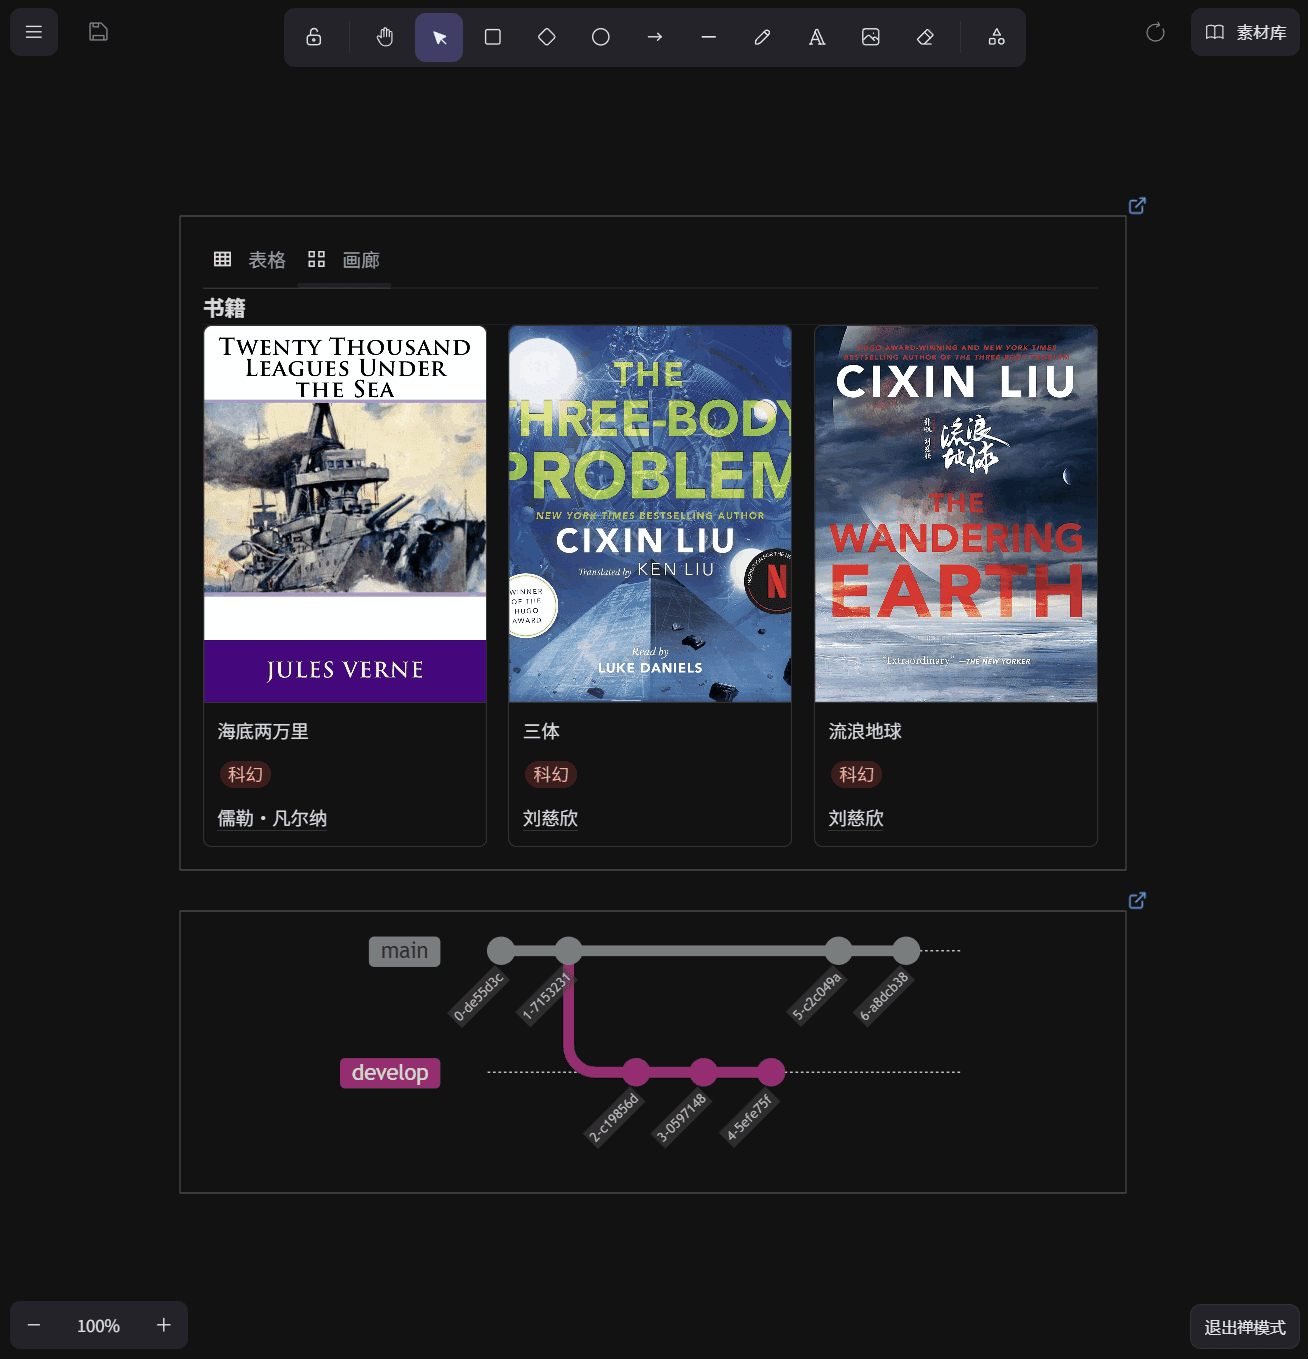
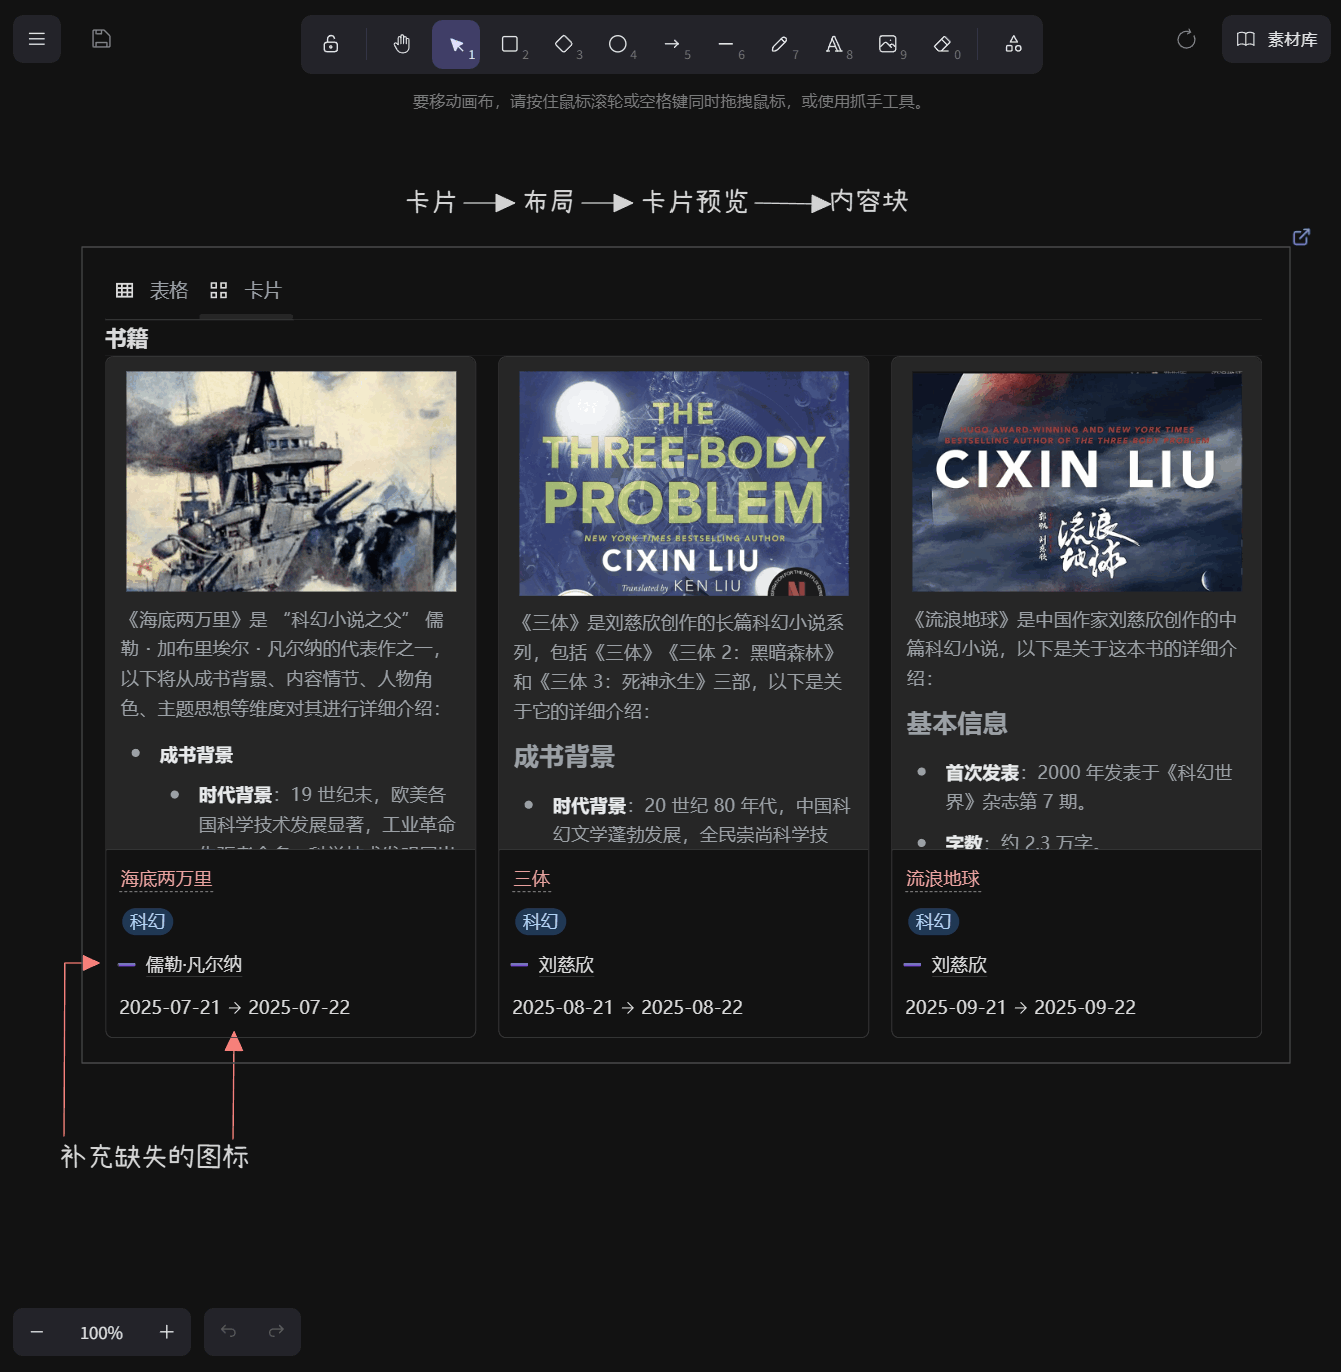
V2.0.10

diff --git a/index.html b/index.html
@@ -27,7 +27,7 @@
     catch (t) { console.error(t) }
   </script>
   <link rel="stylesheet" href="./custom.css">
-  <meta name="version" content="V2.0.9" />
+  <meta name="version" content="V2.0.10" />
   <script type="module" crossorigin src="./assets/index-ZsssFvwm.js"></script>
   <link rel="stylesheet" crossorigin href="./assets/index-DaQqI7hZ.css">
 </head>

diff --git a/README_en_US.md b/README_en_US.md
@@ -3,6 +3,16 @@
 * If this widget is accidentally embedded in a document that already contains other content, please refer to: [How to undo after accidentally inserting a widget?](https://github.com/BryceAndJuly/Whiteboard/issues/48)
 
 ## 1. Current Version
+### V2.0.10
+Test environment: `SiYuan V3.2.1`, `Windows 11 Home Chinese Edition 24H2`
+
+Fix styles:
+
+- Delete the undefined font styles in `base.css`
+- `Attribute View`: Add the two missing icons, see the preview image
+- `Attribute View` - Settings - Layout - Card Preview: When set to content block, add the missing styles
+
+
 ### V2.0.9
 
 - Handling compatibility: In the software` V3.2.0,` the  `Fix Block Hyperlink` function of the whiteboard is invalid.
@@ -28,7 +38,7 @@ Testing environment: SiYuan V3.2.0 preview version, Windows 11 Home Chinese vers
 
 ---
 
-For the current version: **V2.0.9**
+For the current version: **V2.0.10**
 
 If you **do not want auto-save to be enabled by default**, open the widget folder `Whiteboard` -> `custom.js` in an editor like VS Code and search for:
 
@@ -252,7 +262,7 @@ A  `Text Search Panel`  is added to the upper right corner, specifically for sea
 
 ### 1. Adjust Brush Thickness Manually
 
-For V2.0.9, open `Whiteboard` -> `assets` -> `index-ZsssFvwm.js` and search for:
+For V2.0.10, open `Whiteboard` -> `assets` -> `index-ZsssFvwm.js` and search for:
 
 ```css
 n={simulatePressure:e.simulatePressure,size:e.strokeWidth*1.2,thinning

diff --git a/README.md b/README.md
@@ -3,6 +3,16 @@
 * 如果在已有其他内容的文档中误嵌入该挂件，可参考：[误操作插入挂件后如何撤销?](https://github.com/BryceAndJuly/Whiteboard/issues/48)
 
 ## 一、当前版本
+### V2.0.10
+测试环境：`SiYuan V3.2.1`，`Windows 11家庭中文版24H2`
+
+修复样式：
+
+- 删除`base.css`中未定义的字体样式
+- `Attribute View`：补充缺失的两个图标，见预览图
+- `Attribute View`——设置——布局——卡片预览，当设置为内容块时，补充缺失的样式
+
+
 ### V2.0.9
 
 - 处理兼容性：在笔记软件`V3.2.0`中，白板的【修复块超链接】功能失效。
@@ -28,7 +38,7 @@
 
 ---
 
-对于当前版本：**V2.0.9**
+对于当前版本：**V2.0.10**
 
 如果你**不想默认开启自动保存功能**，可以使用VS Code之类的编辑器打开挂件文件夹`Whiteboard`——`custom.js`，
 
@@ -254,7 +264,7 @@ assets/ExcalidrawFiles/20231227015401-w0olmpi.excalidraw
 
 ### 1、手动更改画笔的粗细
 
-对于版本V2.0.9，打开挂件文件夹`Whiteboard`——`assets`——`index-ZsssFvwm.js`,在该js文件中搜索：
+对于版本V2.0.10，打开挂件文件夹`Whiteboard`——`assets`——`index-ZsssFvwm.js`,在该js文件中搜索：
 
 ```css
 n={simulatePressure:e.simulatePressure,size:e.strokeWidth*1.2,thinning
